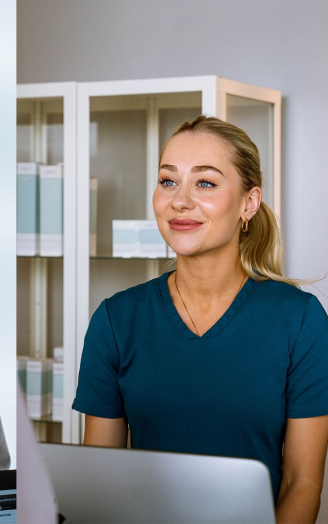
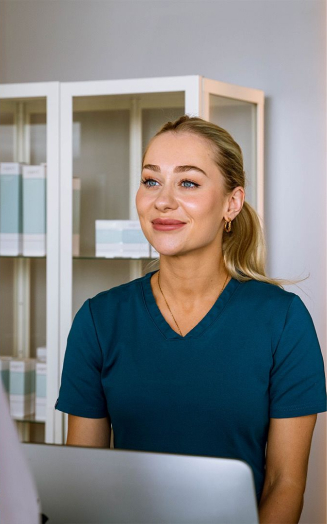
BuyGift adapt

diff --git a/src/components/BuyGift/BuyGift.styled.jsx b/src/components/BuyGift/BuyGift.styled.jsx
@@ -11,16 +11,43 @@ export const BuyGiftSection = styled.section `
 
     & > div {
         display: flex;
+        flex-direction: column;
         gap: 60px;
 
         align-items: center;
+
+        @media screen and (min-width: 768px) {
+            flex-direction: row;
+        }
     }
 `
 
 export const BuyGiftImgContainer = styled.div `
-    display: flex;
-    align-items: end;
-    gap: 30px;
+    display: none;
+
+    @media screen and (min-width: 350px) {
+        display: flex;
+        align-items: flex-end;
+        gap: 0px;
+    }
+    @media screen and (min-width: 360px) {
+        gap: 5px;
+    }
+    @media screen and (min-width: 380px) {
+        gap: 10px;
+    }
+    @media screen and (min-width: 480px) {
+        gap: 16px;
+    }
+    @media screen and (min-width: 1200px) {
+        display: flex;
+        align-items: flex-end;
+        gap: 30px;
+        & picture:nth-of-type(odd) {
+            width: 100%;
+            height: 474px;
+        }
+    }
 `
 
 export const BuyGiftTextContainer = styled.div `

diff --git a/src/components/BuyGift/BuyGift.jsx b/src/components/BuyGift/BuyGift.jsx
@@ -3,13 +3,20 @@ import { Container } from "../shared/Container"
 
 import BuyGift1 from "/img/BuyGift1.jpg"
 import BuyGift2 from "/img/BuyGift2.jpg"
+import BuyGiftMob1 from "/img/BuyGiftMob1.jpg"
+import BuyGiftMob2 from "/img/BuyGiftMob2.jpg"
 
 export const BuyGift = () => {
     return <BuyGiftSection>
         <Container>
             <BuyGiftImgContainer>
-                <img src={BuyGift1} alt="" height={474} />
-                <img src={BuyGift2} alt="" height={524} />
+                <picture>
+                    <source srcSet={BuyGift1} media="(min-width: 1200px)" />
+                    <img src={BuyGiftMob1} />
+                </picture><picture>
+                    <source srcSet={BuyGift2} media="(min-width: 1200px)" />
+                    <img src={BuyGiftMob2} />
+                </picture>
             </BuyGiftImgContainer>
             <BuyGiftTextContainer>
                 <BuyGiftTitle>
